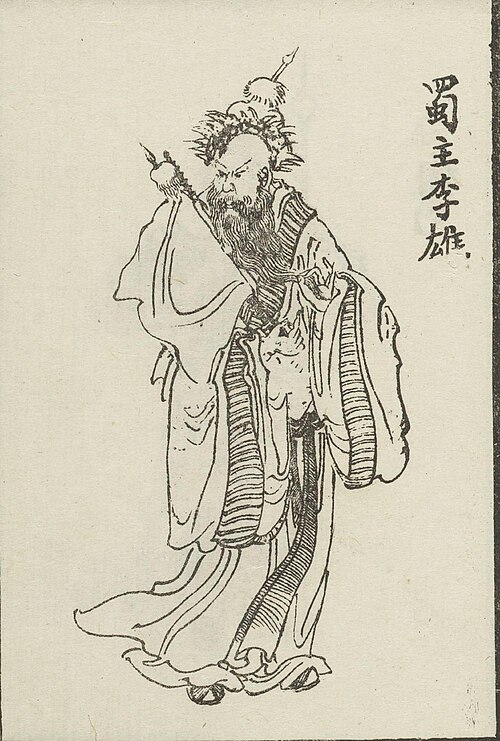
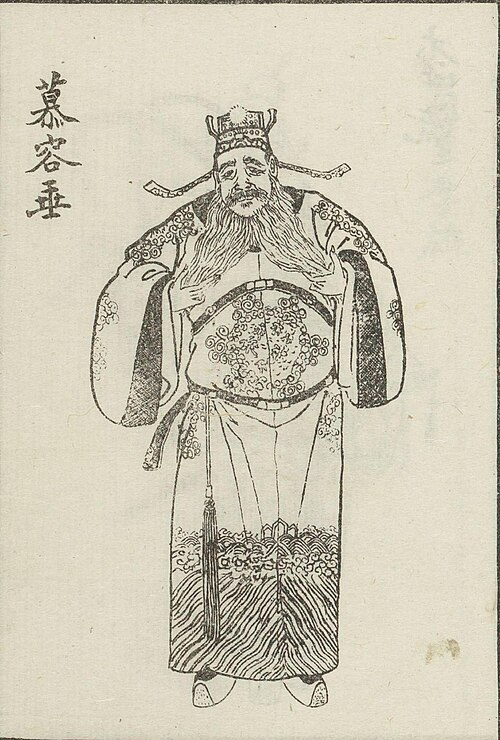
data: 肖像マッピングQAで153→150件（誤マッチ1件差し替え・3件除外）
153件の肖像画を全数目視確認し、割り当てられた画像が本当にその皇帝かを検証した。

- houyan-murongchui: 題字「蜀主李雄」の図＝成漢武帝 李雄の絵が割り当てられて
  いた（諡号「成武帝」の衝突）。同じ『繡像三國演義續編』の題字「慕容垂」の図
  （PD）に差し替え
- liu-song-mingdi: 展脚幞頭＋白袍の宋代様式で北宋太宗の肖像と確認（廟号「太宗」
  ＋王朝名「宋」で「宋太宗」に衝突）。PD/CC0の代替がCommonsに無いため肖像なしへ
- han-aidi / tang-jingzong: 肖像画ではなく物語場面図からの切り出しのため除外
  （『博古葉子』断袖故事図／『帝鑑図説』撃鞠場面）

機械検出（sourceFilename・commonsPageUrl・画像MD5の重複、ファイル名の他皇帝諱、
matchedWikiTitleの他皇帝一致）は修正後すべて0件。誤マッチは正解側の皇帝と同じ
ファイルを掴むため必ずMD5重複として現れる — この2種はCI（task.md 3-3）に転用可。

肖像画はdata/emperors.jsonに持たせていない（ファイルの存在で決まる）ため、
データ項目の訂正ではなくサイトのアセット修正として扱いmeta.statusは変更しない。

Claude-Session: https://claude.ai/code/session_01683o6tiWw8jRYgnYuiANX6

diff --git a/site/src/lib/emperors.ts b/site/src/lib/emperors.ts
@@ -392,6 +392,7 @@ export function getAllEmperorRecords(): EmperorRecord[] {
     personalName: e.name.personalName,
     templeName: e.name.templeName,
     posthumousName: e.name.posthumousName,
+    aliases: e.name.aliases ?? [],
     searchText: searchTextOf(e, dynastyLabel(e.dynasty), eraLabelOf(e.dynasty)),
     hasPortrait: portraitIds.has(e.id),
     portraitUrl: portraitIds.has(e.id) ? `${BASE_PATH}/portraits/${e.id}.webp` : null,
@@ -1076,7 +1077,7 @@ export interface PortraitCredit {
   commonsPageUrl: string;
 }
 
-/** このサイトについてページ用：肖像画の出典クレジット一覧（サイトで実際に使う153件）。 */
+/** このサイトについてページ用：肖像画の出典クレジット一覧（サイトで実際に使う150件）。 */
 export function getPortraitCredits(): PortraitCredit[] {
   const manifestPath = path.join(
     process.cwd(),

diff --git a/docs/site-design/PORTRAITS.md b/docs/site-design/PORTRAITS.md
@@ -35,13 +35,15 @@ zh.wikipedia のダンプ（`dumps.wikimedia.org/zhwiki/latest/`、2026-07-06時
 | **うち目視確認の結果、実際に肖像画だったもの** | 155人 |
 | **うち肖像画ではなかったもの（目視確認で除外）** | 13人 |
 | **うちCC BY-SA 4.0ライセンスのため方針により除外（下記参照）** | **2人** |
-| **最終的な確定数** | **153人** |
-| 記事はあるが自由ライセンス画像なし（除外分含む） | 211人 |
+| （2026-07-17 時点の確定数） | 153人 |
+| **うち目視QAで除外（2026-07-21・下記参照）** | **3人** |
+| **最終的な確定数** | **150人** |
+| 記事はあるが自由ライセンス画像なし（除外分含む） | 214人 |
 | 記事自体が見つからない | 0人 |
 
 - 全364名がzh.wikipediaの何らかの記事にマッチ（取りこぼしなし）
-- 153名分の詳細（照合したタイトル・画像ファイル名）は [`portraits-candidates.json`](./portraits-candidates.json) に記録
-- 残り211名は本調査では**「画像なし」として一旦保留**。実装時に個別確認する
+- 150名分の詳細（照合したタイトル・画像ファイル名）は [`portraits-candidates.json`](./portraits-candidates.json) に記録
+- 残り214名は本調査では**「画像なし」として一旦保留**。実装時に個別確認する
 
 ### 目視確認で除外した13名（2026-07-17）
 
@@ -53,11 +55,61 @@ zh.wikipedia のダンプ（`dumps.wikimedia.org/zhwiki/latest/`、2026-07-06時
 
 ### CC BY-SA 4.0ライセンスを方針により除外（2026-07-17）
 
-目視確認を経て残った155件のうち、CC BY-SA 4.0（要クレジット表記）ライセンスだった2件（`beiwei-daowudi`、`shiguo-qianshu-wangjian`）は、**「CC BY-SA系ライセンスは使用しない」という方針決定**により追加で除外した。画像ファイル・`manifest.json`のエントリを削除し、`portraits-candidates.json`では`noImageIds`へ移動、除外理由は`excludedLicense`フィールドに記録。**最終的な確定数は153件**、全件Public domain/CC0のみとなり、要クレジット表記の対応は不要になった。
+目視確認を経て残った155件のうち、CC BY-SA 4.0（要クレジット表記）ライセンスだった2件（`beiwei-daowudi`、`shiguo-qianshu-wangjian`）は、**「CC BY-SA系ライセンスは使用しない」という方針決定**により追加で除外した。画像ファイル・`manifest.json`のエントリを削除し、`portraits-candidates.json`では`noImageIds`へ移動、除外理由は`excludedLicense`フィールドに記録。**この時点の確定数は153件**、全件Public domain/CC0のみとなり、要クレジット表記の対応は不要になった（その後2026-07-21の目視QAで150件）。
+
+## 肖像マッピングQA（2026-07-21）— 153件の全数目視確認
+
[phone redacted] 時点の153件について、「割り当てられた画像が本当にその皇帝か」を全件確認した。結果、**1件を差し替え・3件を除外し、確定数は153→150件**になった。
+
+### 機械検出（5種）
+
+いずれもスクリプトによる列挙のみで、採否の判定は目視で行った（[CONSTRAINTS.md](../process/CONSTRAINTS.md)の「判定そのものをスクリプトに代行させない」に整合）。
+
+1. `sourceFilename` / `commonsPageUrl` の重複 → 2ペア検出
+2. 画像バイナリのMD5重複 → 同じ2ペア
+3. ファイル名に「別の皇帝の諱」が含まれる → 1件
+4. `matchedWikiTitle` が他の皇帝を指す → 1件（「宋太宗」の衝突）
+5. `matchedWikiTitle` の王朝接頭辞と記録の王朝の不一致 → 誤検出のみ
+
+**1・2 はそのままCIの「画像URL重複」チェックに転用できる**（[../../task.md](../../task.md) 項目3-3）。
+
+### 全数目視確認
+
+153件すべての画像を実見し、疑義が出たものは先行判定を伏せずに「覆してよい」と指示した別の確認者が再検証した（153件が重複なく1回ずつ判定されたことは機械確認済み）。既知の誤り2件を伏せたまま流したところ両方とも検出されたため、検出プロセス自体の対照テストは通っている。
+
+### 対応（4件）
+
+| id | 内容 | 対応 |
+|---|---|---|
+| `houyan-murongchui` | 後燕・成武帝（慕容垂）に、題字「蜀主李雄」の図＝成漢武帝 李雄の絵が割当。諡号「成武帝」の衝突による誤マッチ | 同じ『繡像三國演義續編』の**題字「慕容垂」の図に差し替え**（PD） |
+| `liu-song-mingdi` | 劉宋・明帝（劉彧）に、展脚幞頭＋白袍の宋代皇帝常服の立像＝北宋太宗の肖像が割当。廟号「太宗」＋王朝名「宋」で「宋太宗」に衝突 | Commonsに劉彧のPD/CC0画像が見つからないため**肖像なしへ** |
+| `han-aidi` | 前漢・哀帝に陳洪綬『博古葉子』の断袖故事図。哀帝も画中にいるが札の主題・題名は董賢で、どの人物が哀帝かを画像から特定できない | 肖像画ではなく**場面図の切り出しのため除外** |
+| `tang-jingzong` | 唐・敬宗に清初彩絵『帝鑑図説』の撃鞠（ポロ）場面の切り抜き。画集の体裁上は皇帝本人だが題字がなく複数騎の場面図 | 同上（**場面図の切り出しのため除外**） |
+
+### この確認で閉じきれない残存リスク
+
+**「全件正しいと確認できた」わけではない**。今回検出できた2件はどちらも「バイナリ重複＋題字が別人名 or 明白な別王朝の服飾」という易しいクラスで、次のクラスは原理的に目視では拾えない：
+
+- 単独人物・その時代として正しい服飾・題字なしで、**同時代の別人**が描かれているケース。顔の正解像が存在しないため妥当に見える。
+
+残存リスクを潰すには外部の正解データとの突き合わせ（Wikidata P18 / Wikipedia記事のリード画像）が必要で、目視を増やしても閉じない。[../../task.md](../../task.md) 項目2-5（Wikidata QID紐付け）に合流させるのが筋。
+
+### 反映先（肖像画を増減するときの手順）
+
+肖像画は `data/emperors.json` には一切持たせていない（ファイルの存在で決まる）ため、**データ項目の訂正ではなくサイトのアセット修正**として扱う。`meta.status` は変更しない。
+
+1. `data/images/portraits/{id}.jpg`（幅500pxサムネイル）
+2. `data/images/portraits/manifest.json` のエントリ
+3. `docs/site-design/mockups/card-preview/{id}.webp` ← **サイトが実際に配信する実体はこちら**。360×480に`cover`＋上寄せでクロップ、WebP quality 65
+4. `site/public/portraits/` は `site/scripts/sync-portraits.mjs` が`prebuild`でコピーする（**コピーのみで削除はしない**ため、除外時はローカルの残骸を手で消す）
+5. `docs/site-design/portraits-candidates.json` の `confirmed` / `noImageIds` / 件数
+6. 本ファイルの件数と、`docs/README.md` の件数
+
+`/about` の出典一覧は `manifest.json` から自動生成（`site/src/lib/emperors.ts` の `getPortraitCredits()`）のため、件数のハードコードはない。
 
 ## 画像ダウンロード（2026-07-17）
 
-機械照合の168名分の画像本体を取得し、`data/images/portraits/` に配置（目視確認で13名分、CC BY-SA方針除外で2名分を除外、現在**153ファイル**）。
+機械照合の168名分の画像本体を取得し、`data/images/portraits/` に配置（目視確認で13名分、CC BY-SA方針除外で2名分を除外、この時点で**153ファイル**。2026-07-21の目視QAでさらに3件除外し現在は150ファイル）。
 
 - **保存形式**: `{id}.jpg` / `{id}.png`（`data/emperors.json`の`id`フィールドと1対1対応、サイト側でのファイル名からの逆引きが容易）
 - **取得方法**: オリジナル画像ではなく**幅500pxのサムネイル**を取得（[Wikitech Robot policy](https://wikitech.wikimedia.org/wiki/Robot_policy)・[API:Etiquette](https://www.mediawiki.org/wiki/API:Etiquette)に基づき、原寸よりサムネイルを優先・リクエスト間隔1秒以上・同時接続数1を遵守）。オリジナルのまま取得すると数十MB級のファイルが混在することが判明したため（例: 宋徽宗43MB）、サムネイル方式に変更した
@@ -67,19 +119,19 @@ zh.wikipedia のダンプ（`dumps.wikimedia.org/zhwiki/latest/`、2026-07-06時
 
 ## ライセンス確認（2026-07-17）
 
-ダウンロード直後の168件全件について、Commons Action API（`prop=imageinfo&iiprop=extmetadata`、1リクエストで最大50件までタイトルをまとめて問い合わせ可能なため、168件でも約4リクエストのみで完了。以前レート制限で問題を起こした逐次アクセスとは異なる使い方）でライセンス種別・作者・クレジット情報を取得。その後、目視確認で非肖像画と判定した13件、およびCC BY-SA方針により2件を除外し、**現在の153件は全件`licenseVerified: true`かつPublic domain/CC0のみ**。
+ダウンロード直後の168件全件について、Commons Action API（`prop=imageinfo&iiprop=extmetadata`、1リクエストで最大50件までタイトルをまとめて問い合わせ可能なため、168件でも約4リクエストのみで完了。以前レート制限で問題を起こした逐次アクセスとは異なる使い方）でライセンス種別・作者・クレジット情報を取得。その後、目視確認で非肖像画と判定した13件、およびCC BY-SA方針により2件を除外し、この時点の153件は全件`licenseVerified: true`かつPublic domain/CC0のみとなった（2026-07-21の目視QAでさらに3件除外し**現在150件**。全件`licenseVerified: true`である点は変わらない）。
 
-| ライセンス | 件数（153件中） |
-|---|---|
-| Public domain | 150 |
-| CC0 | 3 |
+| ライセンス | 件数（2026-07-17時点・153件中） | 件数（現在・150件中） |
+|---|---|---|
+| Public domain | 150 | 148 |
+| CC0 | 3 | 2 |
 
 - **要クレジット表記が必要な画像は0件**。CC BY-SA 4.0だった2件（`beiwei-daowudi`、`shiguo-qianshu-wangjian`）は「CC BY-SA系は使用しない」という方針決定により除外したため（掲載時のクレジット表記対応が不要になった）
-- Public domain / CC0（153件）は法的な表記義務はないが、出典明示は望ましい
+- Public domain / CC0（全件）は法的な表記義務はないが、出典明示は望ましい
 - 目視確認で除外前に要クレジット表記だった10件（`beiwei-houfeidi-yuanlang`等）は、非肖像画だったため既に除外済み — **CC BY-SA系（現代のCommons投稿者が撮影した写真）は、PD/CC0系（歴史的絵画のデジタル化）と比べて肖像画ではない誤マッチ率が明らかに高かった**。今後同様の照合を行う際は、CC BY-SA系ヒットは特に目視確認を優先するとよい
 
 ## 未確認・今後の注意点
 
 - **`page_image_free`はあくまで「自由ライセンスの画像がある」ことを示すフラグであり、画像が肖像画かどうか・具体的なライセンス種別（PD/CC-BY/CC-BY-SA等）は含まれない**。今回13件で実際に非肖像画（風景・石窟等）が混入したことからも、**機械照合だけで完結させず必ず目視確認を挟む**必要がある
-- 211名の「画像なし」は、zh.wikipediaの`page_image_free`が未設定・またはCC BY-SA方針除外なだけで、Commons側や他ソースには画像が存在する可能性がある（Commonsダンプでの追加調査は、圧縮時点で数十GB規模になり今回の目的に対して不釣り合いと判断し見送った）。実装時に台北故宮オープンデータや個別のCommons検索で追い足す余地あり（その際もCC BY-SA系は対象外とする）
-- 153名の画像も、故宮系肖像画・晩笑堂竹莊畫傳系の複製画像など出典が混在しているため、掲載前に出典・ライセンス種別を人物ごとに改めて確認する
+- 214名の「画像なし」は、zh.wikipediaの`page_image_free`が未設定・CC BY-SA方針除外・目視QAでの除外なだけで、Commons側や他ソースには画像が存在する可能性がある（Commonsダンプでの追加調査は、圧縮時点で数十GB規模になり今回の目的に対して不釣り合いと判断し見送った）。実装時に台北故宮オープンデータや個別のCommons検索で追い足す余地あり（その際もCC BY-SA系は対象外とする）
+- 確定した画像も、故宮系肖像画・晩笑堂竹莊畫傳系の複製画像など出典が混在しているため、掲載前に出典・ライセンス種別を人物ごとに改めて確認する（2026-07-21の目視QAで実際に3件の誤り・不適合が見つかった）

diff --git a/task.md b/task.md
@@ -76,12 +76,17 @@
 - [ ] 死因・即位経緯のような**解釈を含む項目**を優先。回数系（改元・大赦等）は正史直読み確定済みで後回し可
 - [ ] 法的注意: 説明文を Wikipedia 記述から派生させている場合 CC BY-SA 継承義務が発生しうる。出典差し替えと同時に文章も原典ベースで書き直すのが安全
 
-### 3-2. 肖像マッピング QA（確認済みの疑義あり）
-- [ ] 後燕・成武帝（慕容垂）: 成漢・武帝（李雄）と同一 Commons ファイル（繡像三國演義續編「蜀主李雄」）が割当。慕容垂に李雄の絵
-- [ ] 劉宋・明帝（劉彧）: 北宋・太宗と同一ファイル（Taizong_of_Song.jpg）。劉彧に趙匡義の肖像
-- [ ] 前漢・哀帝: Dong_Xian.jpg（董賢）。断袖図のクロップで哀帝が写っているなら妥当、董賢単体なら誤り。Commons ファイルページで描画対象を確認
-- [ ] 機械検出: 同一 Commons URL が複数皇帝に割り当てられているケースをスクリプト抽出（上2件はこれで引っかかる）。加えてファイル名の人名と皇帝名の照合で候補出し
-- [ ] 修正後、about の153件テーブルを自動生成に切替（再発防止）
+### 3-2. 肖像マッピング QA — **完了（2026-07-21）**
+
+153件を全数目視確認し、1件差し替え・3件除外で **153→150件**。経緯・残存リスク・反映手順は [docs/site-design/PORTRAITS.md](docs/site-design/PORTRAITS.md)「肖像マッピングQA（2026-07-21）」節。
+
+- [x] 後燕・成武帝（慕容垂）: 題字「蜀主李雄」の図＝成漢武帝の絵だった → 同シリーズの題字「慕容垂」の図（PD）に差し替え
+- [x] 劉宋・明帝（劉彧）: 展脚幞頭＋白袍の宋代様式で北宋太宗の肖像と確認 → PD/CC0 の代替が Commons に無いため肖像なしへ
+- [x] 前漢・哀帝: Dong_Xian.jpg は『博古葉子』断袖故事図で哀帝も画中にいるが、札の主題は董賢で本人を特定できない → 場面図のため除外
+- [x] 唐・敬宗（全数確認で新たに判明）: 『帝鑑図説』撃鞠場面の切り抜き → 同じく場面図のため除外
+- [x] 機械検出: sourceFilename/commonsPageUrl 重複・画像 MD5 重複・ファイル名の他皇帝諱・matchedWikiTitle の他皇帝一致・王朝接頭辞不一致 の5種を実施。**修正後は重複0件**
+- [x] about の153件テーブルは既に manifest からの自動生成済み（`emperors.ts` の `getPortraitCredits()`）
+- [ ] **残存リスク**: 単独人物・正しい時代の服飾・題字なしで「同時代の別人」というケースは目視では原理的に拾えない。潰すには外部の正解データ（Wikidata P18 / Wikipedia リード画像）との突き合わせが必要 → 項目 2-5 に合流させる
 
 ### 3-3. QA の恒久化（CI）
 - [ ] `data/emperors.json` へのバリデーションを GitHub Actions CI に: スキーマ適合・日付整合（即位≦退位≦崩御）・精度フラグと日付形式の一致・画像 URL 重複・出典フィールドの禁止語（Wikipedia 記事名パターン）・slug 一意性・前後ナビの連結整合